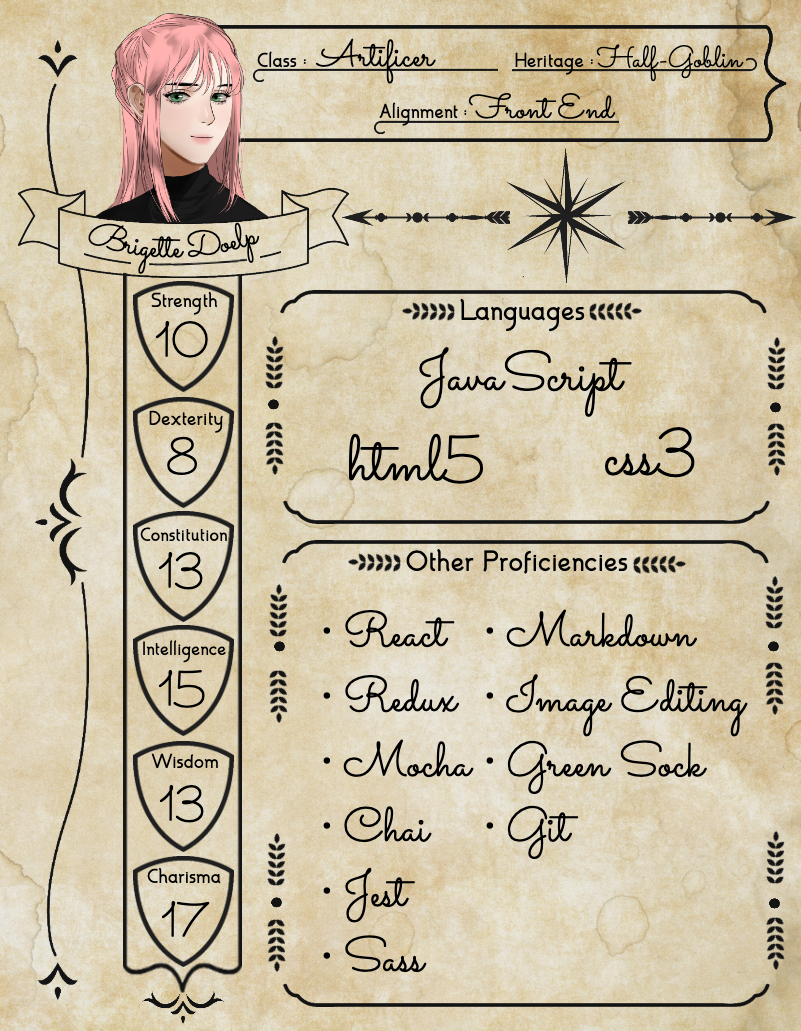
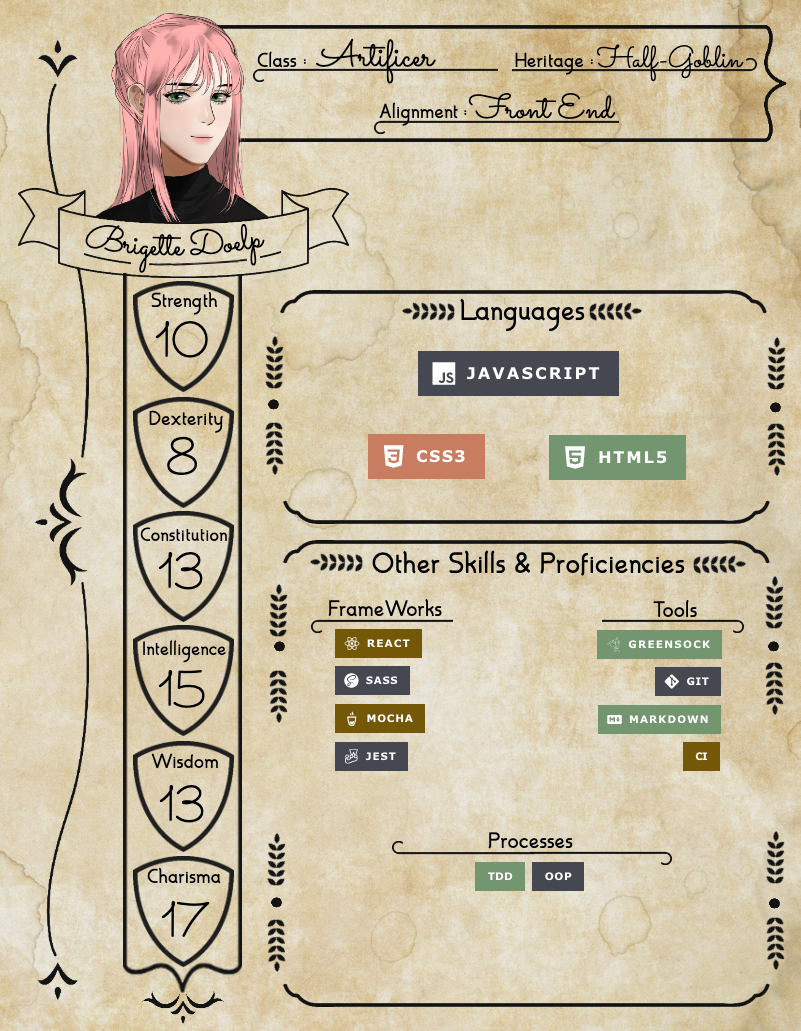
Update dev character sheet

diff --git a/README.md b/README.md
@@ -5,12 +5,12 @@
 <div align="center">
 <h1>Front End Developer</h1>
 <h5>She/Her || They/Them</h5>
-<p>A goblin that has learned JavaScript and Front End Development.</p>
+<p>A half-goblin that has learned JavaScript and Front End Development.</p>
 </div>
 
 #### Get To Know The Goblin
-* I'm a recently graduated student of Turng School of Software and Design! 
+* I'm a recently graduated student of Turing School of Software and Design!
 * My previous work was in sales, both in the car industry and the tabletop gaming industry.
 * Personally invested in making the traditionally male industries of tech and nerd more inclusive for the gals, gays, and theys!
 * React is my favourite.
-* I want to make beautiful and useful things. 
+* I want to make beautiful and useful things.
